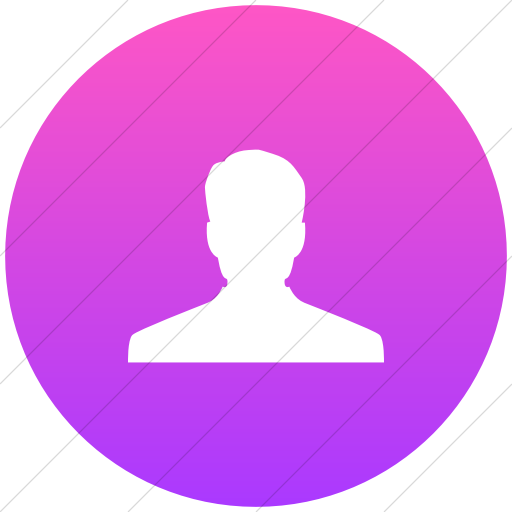
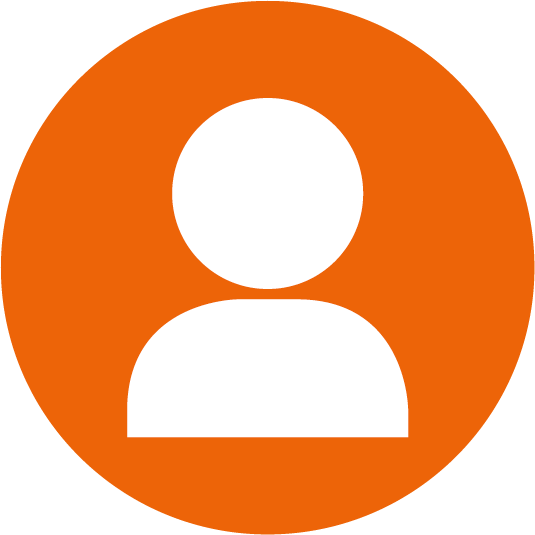
First commit

diff --git a/lib/main.dart b/lib/main.dart
@@ -29,6 +29,13 @@ class MyApp extends StatelessWidget {
                 child: Column(
                   children: [
                     SizedBox(height: 50),
+                    Container(
+                        child: Image.asset(
+                      'images/login.png',
+                      width: 200,
+                      height: 200,
+                    )),
+                    SizedBox(height: 30),
                     Text(
                       "EMAIL",
                       style: TextStyle(
